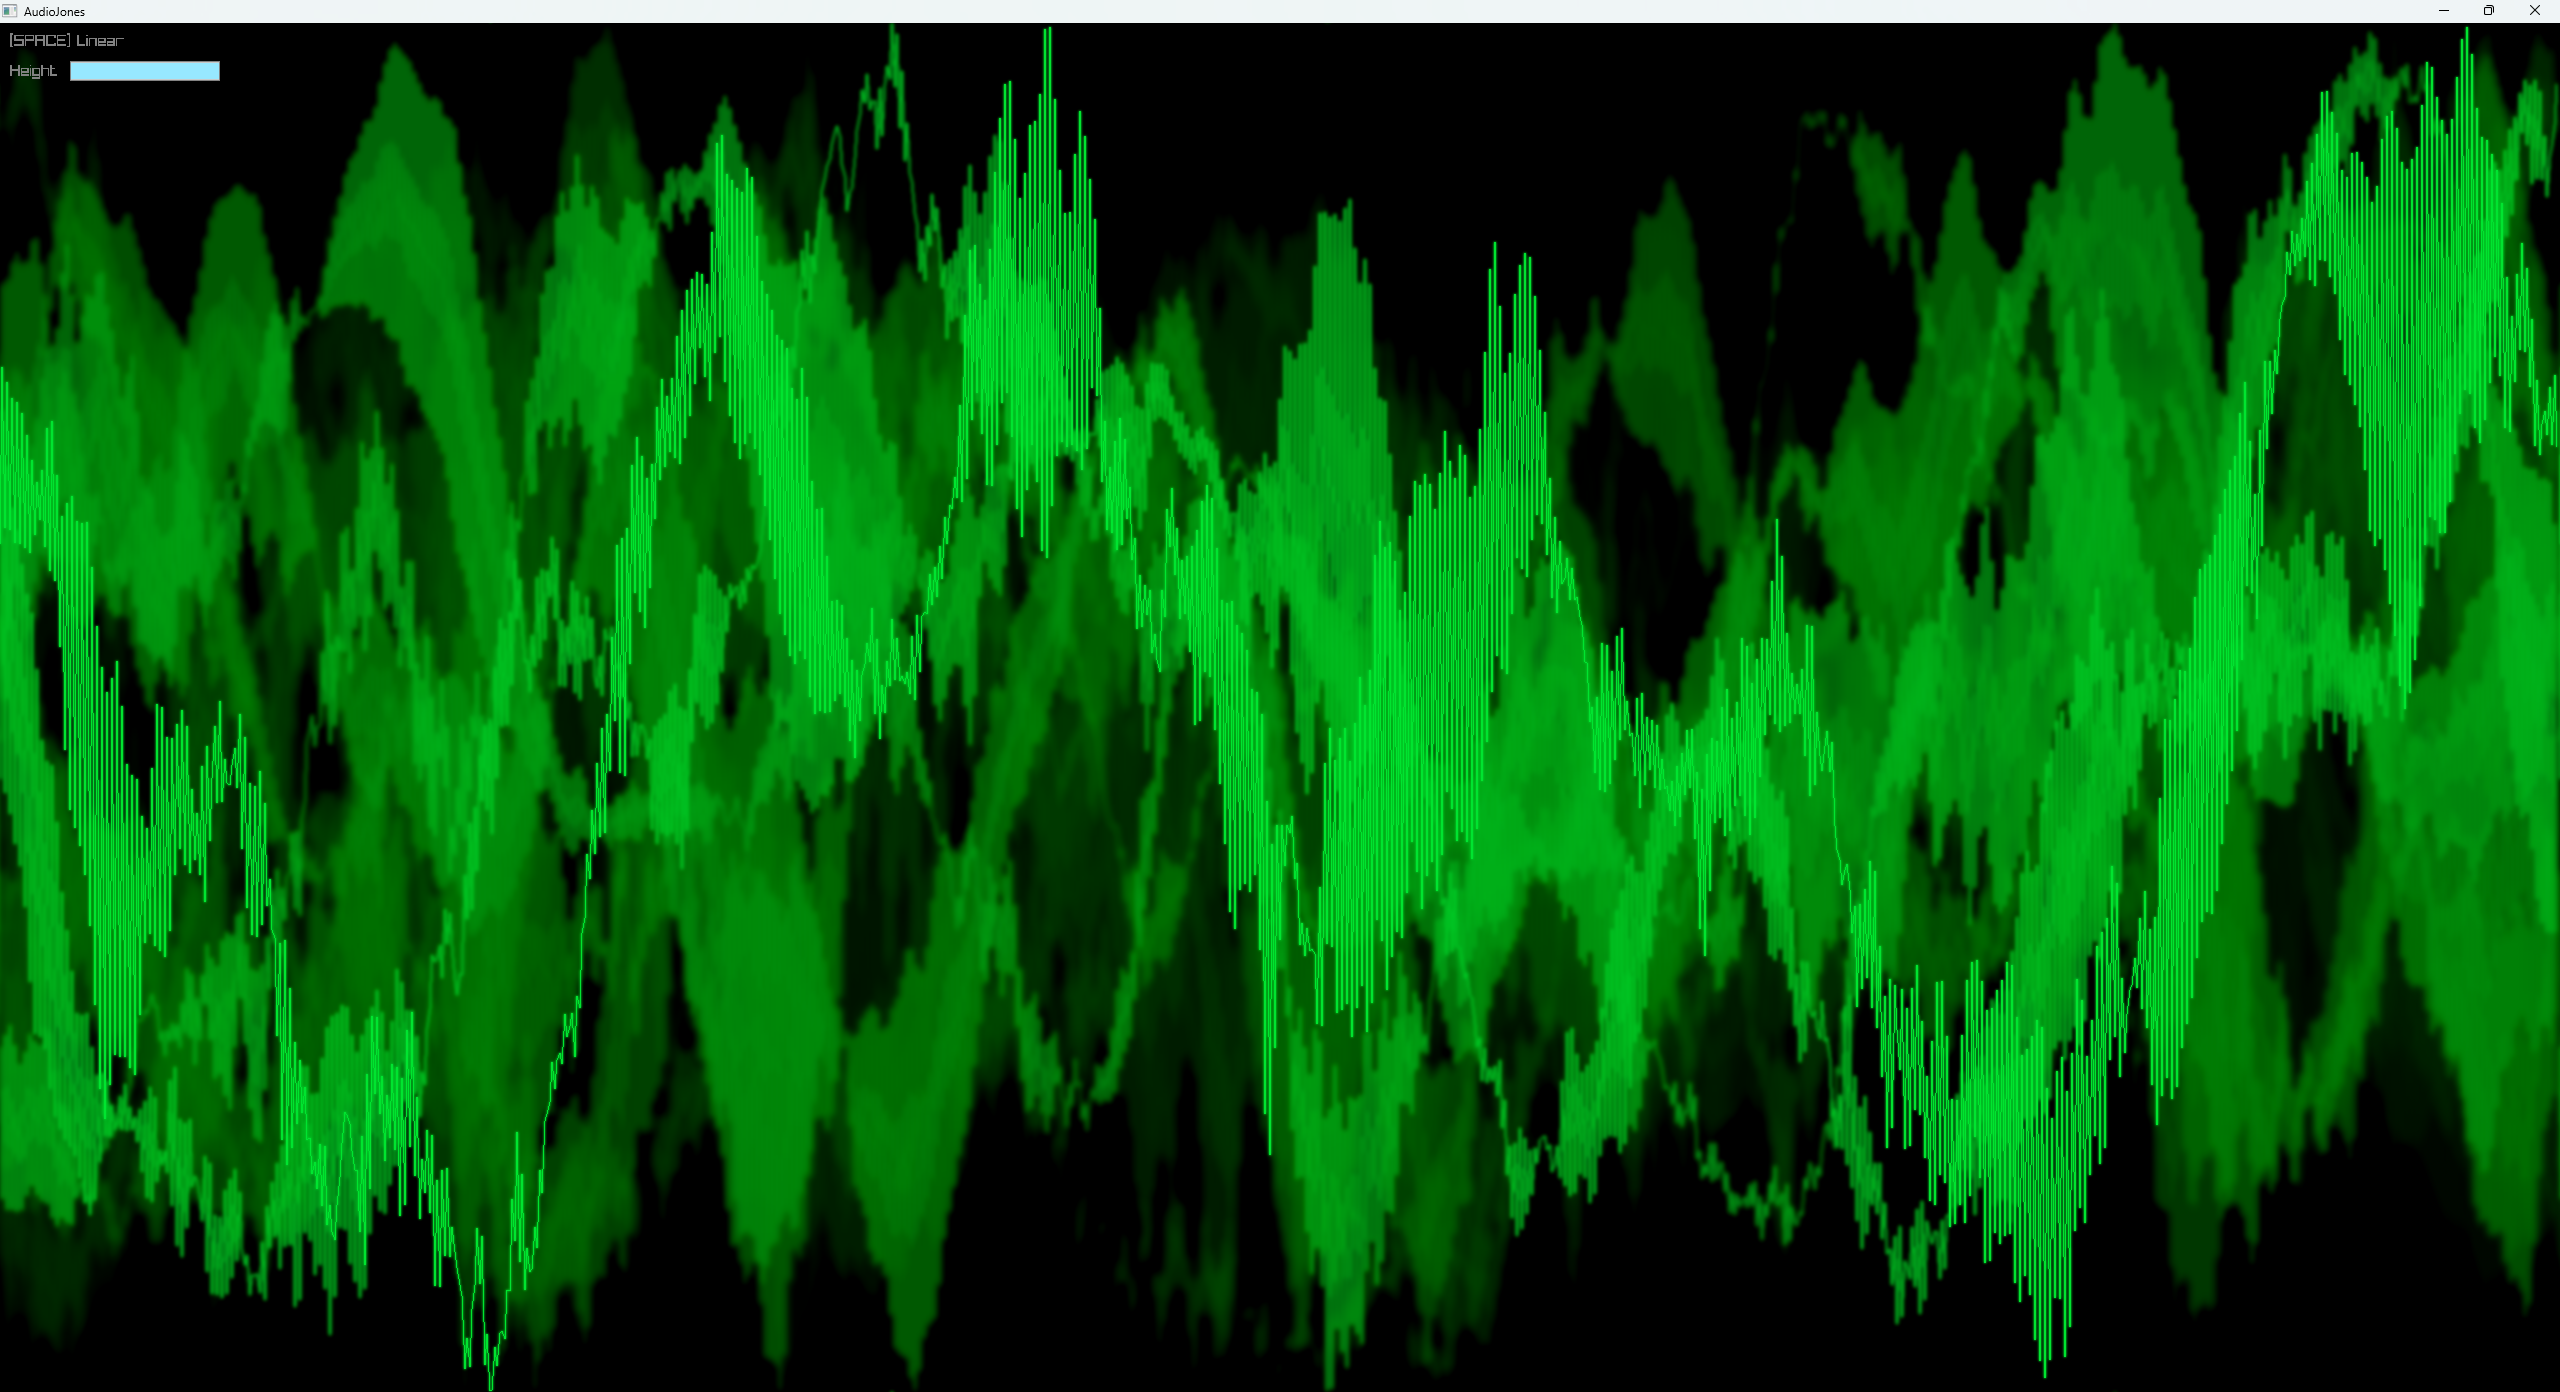
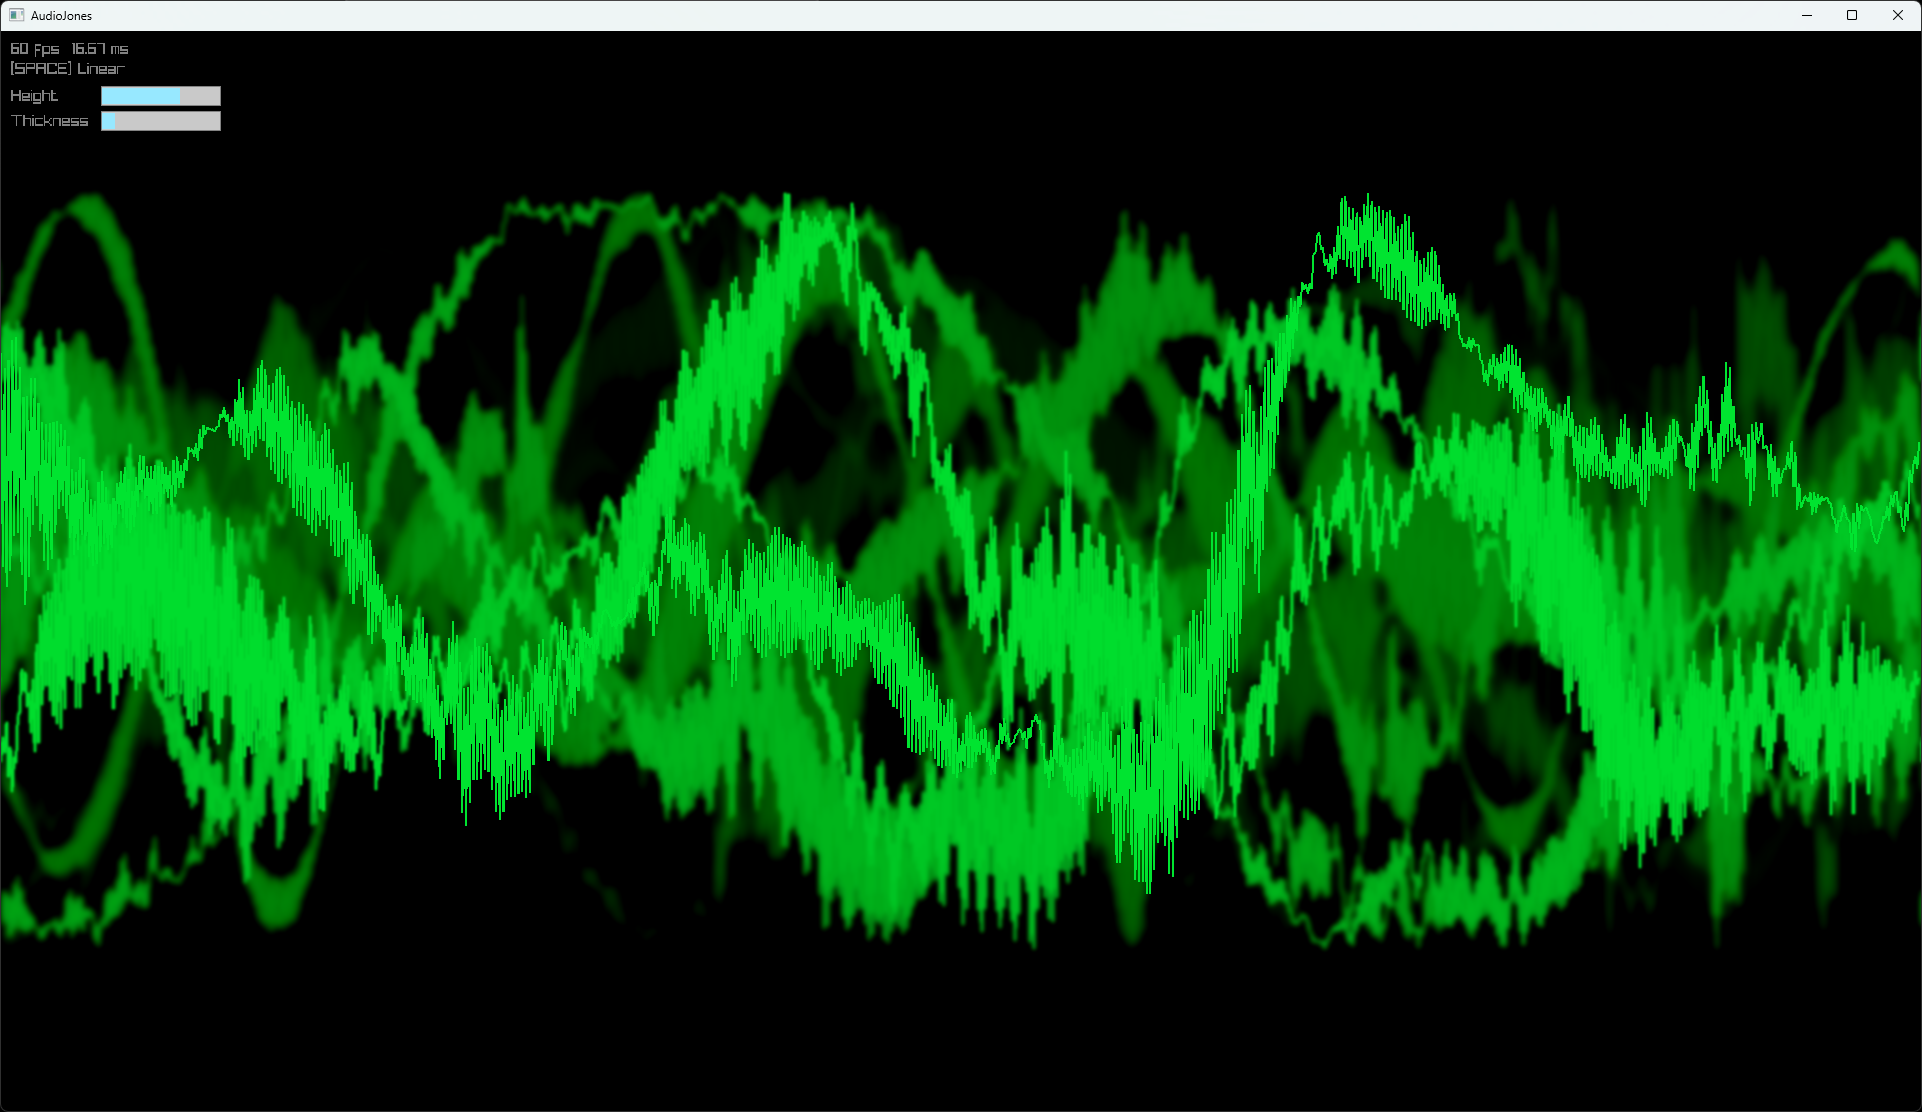
Add line thickness via DrawLineEx and UI controls
- Waveform functions now accept thickness parameter
- Use raylib's DrawLineEx for proper thick line rendering
- Add thickness slider (1-10) and FPS counter to UI
- Align UI controls with consistent label/slider spacing

🤖 Generated with [Claude Code](https://claude.com/claude-code)

diff --git a/src/waveform.c b/src/waveform.c
@@ -75,20 +75,21 @@ Color HsvToRgb(float h, float s, float v)
     };
 }
 
-void DrawWaveformLinear(float* samples, int count, int width, int centerY, int amplitude, Color color)
+void DrawWaveformLinear(float* samples, int count, int width, int centerY,
+                        int amplitude, Color color, float thickness)
 {
     float xStep = (float)width / count;
+
     for (int i = 0; i < count - 1; i++) {
-        int x1 = (int)(i * xStep);
-        int y1 = centerY - (int)(samples[i] * amplitude);
-        int x2 = (int)((i + 1) * xStep);
-        int y2 = centerY - (int)(samples[i + 1] * amplitude);
-        DrawLine(x1, y1, x2, y2, color);
+        Vector2 start = { i * xStep, centerY - samples[i] * amplitude };
+        Vector2 end = { (i + 1) * xStep, centerY - samples[i + 1] * amplitude };
+        DrawLineEx(start, end, thickness, color);
     }
 }
 
 void DrawWaveformCircularRainbow(float* samples, int count, int centerX, int centerY,
-                                  float baseRadius, float amplitude, float rotation, float hueOffset)
+                                  float baseRadius, float amplitude, float rotation,
+                                  float hueOffset, float thickness)
 {
     int numPoints = count * INTERPOLATION_MULT;
     float angleStep = (2.0f * PI) / numPoints;
@@ -99,41 +100,37 @@ void DrawWaveformCircularRainbow(float* samples, int count, int centerX, int cen
         float angle1 = i * angleStep + rotation - PI / 2;
         float angle2 = next * angleStep + rotation - PI / 2;
 
-        // Cubic interpolation for smoother curves
-        int idx = (i / INTERPOLATION_MULT) % count;
-        float frac = (float)(i % INTERPOLATION_MULT) / INTERPOLATION_MULT;
-        int i0 = (idx - 1 + count) % count;
-        int i1 = idx;
-        int i2 = (idx + 1) % count;
-        int i3 = (idx + 2) % count;
-        float sample1 = CubicInterp(samples[i0], samples[i1], samples[i2], samples[i3], frac);
+        // Cubic interpolation for point 1
+        int idx1 = (i / INTERPOLATION_MULT) % count;
+        float frac1 = (float)(i % INTERPOLATION_MULT) / INTERPOLATION_MULT;
+        int i0 = (idx1 - 1 + count) % count;
+        int i1 = idx1;
+        int i2 = (idx1 + 1) % count;
+        int i3 = (idx1 + 2) % count;
+        float sample1 = CubicInterp(samples[i0], samples[i1], samples[i2], samples[i3], frac1);
 
-        int nextIdx = (next / INTERPOLATION_MULT) % count;
-        float nextFrac = (float)(next % INTERPOLATION_MULT) / INTERPOLATION_MULT;
-        int n0 = (nextIdx - 1 + count) % count;
-        int n1 = nextIdx;
-        int n2 = (nextIdx + 1) % count;
-        int n3 = (nextIdx + 2) % count;
-        float sample2 = CubicInterp(samples[n0], samples[n1], samples[n2], samples[n3], nextFrac);
+        // Cubic interpolation for point 2
+        int idx2 = (next / INTERPOLATION_MULT) % count;
+        float frac2 = (float)(next % INTERPOLATION_MULT) / INTERPOLATION_MULT;
+        int n0 = (idx2 - 1 + count) % count;
+        int n1 = idx2;
+        int n2 = (idx2 + 1) % count;
+        int n3 = (idx2 + 2) % count;
+        float sample2 = CubicInterp(samples[n0], samples[n1], samples[n2], samples[n3], frac2);
 
-        // Amplitude is total range - half above baseRadius, half below
         float radius1 = baseRadius + sample1 * (amplitude * 0.5f);
         float radius2 = baseRadius + sample2 * (amplitude * 0.5f);
-
-        // Clamp to prevent negative radii
         if (radius1 < 10.0f) radius1 = 10.0f;
         if (radius2 < 10.0f) radius2 = 10.0f;
 
-        int x1 = centerX + (int)(cosf(angle1) * radius1);
-        int y1 = centerY + (int)(sinf(angle1) * radius1);
-        int x2 = centerX + (int)(cosf(angle2) * radius2);
-        int y2 = centerY + (int)(sinf(angle2) * radius2);
+        Vector2 start = { centerX + cosf(angle1) * radius1, centerY + sinf(angle1) * radius1 };
+        Vector2 end = { centerX + cosf(angle2) * radius2, centerY + sinf(angle2) * radius2 };
 
-        // Hue cycles around the circle
+        // Rainbow color
         float hue = (float)i / numPoints + hueOffset;
         hue = hue - floorf(hue);
         Color color = HsvToRgb(hue, 1.0f, 1.0f);
 
-        DrawLine(x1, y1, x2, y2, color);
+        DrawLineEx(start, end, thickness, color);
     }
 }

diff --git a/src/main.c b/src/main.c
@@ -48,6 +48,7 @@ int main(void)
     float rotation = 0.0f;
     float hueOffset = 0.0f;
     float amplitudeScale = 0.35f;  // Relative to min(width, height)
+    float thickness = 2.0f;
 
     // Waveform updates at 30fps, rendering at 60fps
     const float waveformUpdateInterval = 1.0f / 20.0f;
@@ -91,12 +92,12 @@ int main(void)
         VisualizerBeginAccum(vis, deltaTime);
             // Draw new waveform on top
             if (mode == WAVEFORM_LINEAR) {
-                DrawWaveformLinear(waveform, WAVEFORM_SAMPLES, screenW, centerY, (int)amplitude, GREEN);
+                DrawWaveformLinear(waveform, WAVEFORM_SAMPLES, screenW, centerY, (int)amplitude, GREEN, thickness);
             } else {
                 // Use extended (mirrored) waveform for seamless circular display
                 // baseRadius is center of oscillation, amplitude is total range (±amplitude/2)
                 DrawWaveformCircularRainbow(waveformExtended, WAVEFORM_EXTENDED, centerX, centerY,
-                                            baseRadius, amplitude, rotation, hueOffset);
+                                            baseRadius, amplitude, rotation, hueOffset, thickness);
             }
         VisualizerEndAccum(vis);
 
@@ -104,11 +105,22 @@ int main(void)
         BeginDrawing();
             ClearBackground(BLACK);
             VisualizerToScreen(vis);
-            DrawText(mode == WAVEFORM_LINEAR ? "[SPACE] Linear" : "[SPACE] Circular", 10, 10, 16, GRAY);
+            // FPS and frame time
+            DrawText(TextFormat("%d fps  %.2f ms", GetFPS(), GetFrameTime() * 1000.0f), 10, 10, 16, GRAY);
+            DrawText(mode == WAVEFORM_LINEAR ? "[SPACE] Linear" : "[SPACE] Circular", 10, 30, 16, GRAY);
 
-            // UI controls
-            DrawText("Height", 10, 40, 16, GRAY);
-            GuiSliderBar((Rectangle){70, 38, 150, 20}, NULL, NULL, &amplitudeScale, 0.05f, 0.5f);
+            // UI controls - aligned sliders
+            const int labelX = 10;
+            const int sliderX = 100;
+            const int sliderW = 120;
+            int y = 55;
+
+            DrawText("Height", labelX, y + 2, 16, GRAY);
+            GuiSliderBar((Rectangle){sliderX, y, sliderW, 20}, NULL, NULL, &amplitudeScale, 0.05f, 0.5f);
+            y += 25;
+
+            DrawText("Thickness", labelX, y + 2, 16, GRAY);
+            GuiSliderBar((Rectangle){sliderX, y, sliderW, 20}, NULL, NULL, &thickness, 1.0f, 10.0f);
         EndDrawing();
     }
 

diff --git a/src/waveform.h b/src/waveform.h
@@ -17,10 +17,12 @@ void ProcessWaveform(float* audioBuffer, uint32_t framesRead,
 Color HsvToRgb(float h, float s, float v);
 
 // Draw waveform in linear oscilloscope style
-void DrawWaveformLinear(float* samples, int count, int width, int centerY, int amplitude, Color color);
+void DrawWaveformLinear(float* samples, int count, int width, int centerY,
+                        int amplitude, Color color, float thickness);
 
 // Draw waveform in circular format with rainbow color sweep
 void DrawWaveformCircularRainbow(float* samples, int count, int centerX, int centerY,
-                                  float baseRadius, float amplitude, float rotation, float hueOffset);
+                                  float baseRadius, float amplitude, float rotation,
+                                  float hueOffset, float thickness);
 
 #endif // WAVEFORM_H
